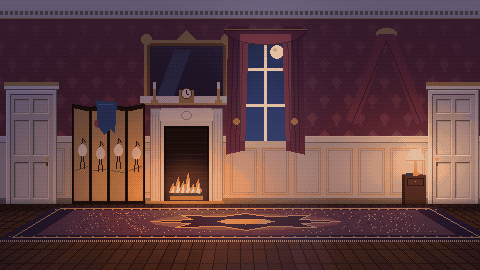
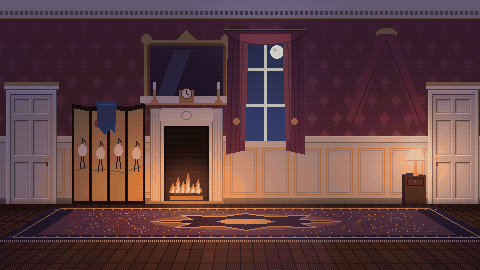
Cover the mansion bed with one full-length white sheet over Eleanor
Use the eleanor_sheet whites, raise the sheet over her feet and knees, keep
the drape inside the posts, and drop the rose coverlet and heap so both bed
states show only white linen.

Copilot-Session: 8aff2f3c-fe75-41b2-ae80-a6b3ecf14add

diff --git a/tools/art/mansion.py b/tools/art/mansion.py
@@ -1190,6 +1190,15 @@ LINEN_PALETTE = [SHEET, SHEET_LIT, SHEET_FOLD, SHEET_SIDE] + [
     tuple(round(a + (b - a) * k / 9) for a, b in zip(SHEET_FOLD, SHEET_LIT))
     for k in range(10)
 ]
+# Harrington's sheet is the same white cotton Eleanor later wraps herself in (sprites.ELEANOR_SHEET).
+MANSION_SHEET = hx("e8e4dc")
+MANSION_SHEET_LIT = hx("fffff8")
+MANSION_SHEET_SIDE = hx("c8c4bc")
+MANSION_SHEET_FOLD = hx("aca8a5")
+MANSION_LINEN_PALETTE = [MANSION_SHEET, MANSION_SHEET_LIT, MANSION_SHEET_SIDE, MANSION_SHEET_FOLD] + [
+    tuple(round(a + (b - a) * k / 9) for a, b in zip(MANSION_SHEET_FOLD, MANSION_SHEET_LIT))
+    for k in range(10)
+]
 
 
 def linen_surface(size, outline, folds, fill=SHEET, falloff=0.35, loft=None):
@@ -1246,7 +1255,7 @@ def _bare_eleanor():
     return seated
 
 
-def _sheet_on(figure, fill, hem):
+def _sheet_on(figure, fill, hem, side=SHEET_SIDE):
     w, h = figure.size
     outline = [(8, 20), (14, 21), (22, 20), (26, 19), (28, 23), (27, 29),
                (30, 34), (w - 1, 38), (w - 2, 41), (26, h - 1),
@@ -1260,14 +1269,50 @@ def _sheet_on(figure, fill, hem):
     ], fill, falloff=0.7, loft=[(17, 27, 8, 6, 11), (23, 35, 9, 3, 8)])
     d = ImageDraw.Draw(sheet)
     d.line([(8, 20), (14, 21), (22, 20), (26, 19)], fill=hem + (255,))
-    d.line([(9, 22), (14, 23), (21, 22)], fill=SHEET_SIDE + (255,))
+    d.line([(9, 22), (14, 23), (21, 22)], fill=side + (255,))
     return sheet
 
 
-def _eleanor_in_bed():
+def _eleanor_in_bed(fill=SHEET, hem=SHEET_LIT, side=SHEET_SIDE):
     """Eleanor sitting up against the pillows, bare shoulders; the sheet covers her from the chest down."""
     figure = _bare_eleanor()
-    return Image.alpha_composite(figure, _sheet_on(figure, SHEET, SHEET_LIT))
+    return Image.alpha_composite(figure, _sheet_on(figure, fill, hem, side))
+
+
+def _mansion_eleanor_in_bed():
+    return _eleanor_in_bed(MANSION_SHEET, MANSION_SHEET_LIT, MANSION_SHEET_SIDE)
+
+
+def _full_sheet(img):
+    """One white sheet over the whole mattress: feet and knees lift it toward the foot, it pools into her lap at the
+    head, and its front hangs in unequal scallops over the coverlet, kept inside the posts."""
+    w, h = img.size
+    side = linen_surface((w, h), [
+        (311, 184), (322, 185), (336, 184), (352, 185), (368, 184), (384, 185), (399, 184),
+        (399, 199), (396, 203), (387, 202), (378, 204), (367, 202), (356, 204),
+        (344, 202), (333, 204), (322, 202), (313, 204), (311, 199),
+    ], [
+        ([(318, 185), (316, 193), (318, 202)], 1.6, 30),
+        ([(331, 185), (334, 193), (332, 203)], 1.8, 34),
+        ([(350, 185), (347, 194), (350, 203)], 1.9, 34),
+        ([(366, 185), (369, 193), (366, 202)], 1.7, 30),
+        ([(383, 185), (380, 194), (383, 203)], 1.6, 28),
+    ], MANSION_SHEET_SIDE, falloff=0.9, loft=[(355, 185, 60, 2.5, -12)])
+    top = linen_surface((w, h), [
+        (310, 183), (314, 180), (318, 176), (323, 173), (327, 174), (331, 177),
+        (337, 178), (344, 174), (350, 170), (356, 169), (362, 171), (368, 175),
+        (376, 178), (388, 180), (399, 181), (399, 186), (384, 186), (368, 186),
+        (352, 186), (336, 186), (322, 186), (310, 186),
+    ], [
+        ([(316, 182), (330, 183), (348, 182), (366, 183)], 1.6, 46),
+        ([(330, 176), (333, 180), (337, 183)], 1.2, 30),
+        ([(360, 172), (364, 177), (370, 181)], 1.2, 26),
+        ([(343, 176), (349, 178), (356, 178)], 1.0, 18),
+    ], MANSION_SHEET, falloff=0.9, loft=[(323, 175, 4, 2, 8), (354, 172, 7, 3, 10)])
+    img.paste(side, (0, 0), side)
+    img.paste(top, (0, 0), top)
+    # the cotton tucked tight between her shins and hip
+    shadow(img, "ellipse", [336, 180, 346, 186], 0.12, 1)
 
 
 def _eleanor_origin(R):
@@ -1278,19 +1323,13 @@ def _eleanor_origin(R):
 
 
 def _restamp_white_sheet(img, R):
-    """Restore the shared lamp-lit face and neutral cotton after the room's rose-colored grade."""
+    """Restore the shared lamp-lit face and Harrington's white cotton after the room's rose-colored grade."""
     from PIL import ImageOps
     before = img.copy()
     frame = Image.new("RGBA", img.size)
     _bed_front(frame, R)
-    x1, z0, z1, top = BED["x1"], BED["z0"], BED["z1"], BED["top"]
-    head = linen_surface(img.size, [
-        R.P(x1 - 18, top, z0 + 1), R.P(x1 - 1, top, z0 + 1),
-        R.P(x1 - 1, top, z1 - 1), R.P(x1 - 1, 7, z1 - 1),
-        R.P(x1 - 12, 8, z1 - 1), R.P(x1 - 18, 11, z1 - 1),
-    ], [([(387, 184), (390, 190), (389, 201)], 1.3, 21)],
-        SHEET, falloff=0.7)
-    img.paste(head, (0, 0), head)
+    x1, z0, top = BED["x1"], BED["z0"], BED["top"]
+    _full_sheet(img)
     for dz, dy in ((z0 + 8, 0), (z0 + 22, 0), (z0 + 14, 5)):
         a, b = R.P(x1 - 20, top + 12 + dy, dz), R.P(x1 - 1, top + dy, dz + 14)
         ax, ay, bx, by = a[0], a[1], b[0], b[1]
@@ -1298,16 +1337,16 @@ def _restamp_white_sheet(img, R):
             (ax + 3, ay), (bx - 4, ay + 1), (bx - 1, ay + 4), (bx, by - 3),
             (bx - 3, by), (ax + 2, by - 1), (ax, by - 4), (ax + 1, ay + 3),
         ], [([(ax + 3, by - 2), (bx - 7, by - 3), (bx - 3, by - 6)], 1.1, 19)],
-            SHEET, falloff=0.5, loft=[((ax + bx) / 2, (ay + by) / 2, 9, 5, 15)])
+            MANSION_SHEET, falloff=0.5, loft=[((ax + bx) / 2, (ay + by) / 2, 9, 5, 15)])
         img.paste(pillow, (0, 0), pillow)
-    figure = ImageOps.mirror(_eleanor_in_bed())
+    figure = ImageOps.mirror(_mansion_eleanor_in_bed())
     img.paste(figure, _eleanor_origin(R), figure)
     img.paste(before, (0, 0), frame.getchannel("A"))
 
 
 def bedroom_palette(base, occupied, empty):
     pal = palette_of(Image.blend(Image.blend(base, occupied, 0.4), empty, 0.3), 124)
-    for color in LINEN_PALETTE:
+    for color in MANSION_LINEN_PALETTE:
         if color not in pal:
             pal.append(color)
     return pal
@@ -1315,7 +1354,7 @@ def bedroom_palette(base, occupied, empty):
 
 def _bed(img, R, who):
     """The walnut bed, side-on with its head to the right by the nightstand: a tall carved headboard, a low footboard,
-    pillows and a rose satin coverlet hanging to the rail. who: "eleanor" (sitting up against the pillows) or "empty"."""
+    pillows and a bare white mattress. who: "eleanor" (sitting up under the sheet) or "empty"."""
     x0, x1, z0, z1, top = BED["x0"], BED["x1"], BED["z0"], BED["z1"], BED["top"]
     WAL, WAL_D, WAL_L = hx("4a2a18"), hx("24140a"), hx("7a4a2a")
     shadow(img, "polygon", [R.P(x0 - 6, 0, z0), R.P(x1 + 6, 0, z0), R.P(x1 + 8, 0, z1 + 6), R.P(x0 - 8, 0, z1 + 6)], 0.6, 3)
@@ -1338,35 +1377,11 @@ def _bed(img, R, who):
         d.line([(a[0] + 3, b[1] - 2), (b[0] - 3, b[1] - 2)], fill=hx("d8d0c0"))
         if who == "empty" and k == 2:
             d.ellipse([a[0] + 5, a[1] + 3, a[0] + 13, a[1] + 7], fill=hx("d8d0c0"))  # the dent where her head was
-    cover_end = x1 - 18 if who == "eleanor" else x1 - 44
     if who == "eleanor":
         from PIL import ImageOps
-        el = ImageOps.mirror(_eleanor_in_bed())
+        el = ImageOps.mirror(_mansion_eleanor_in_bed())
         img.paste(el, _eleanor_origin(R), el)
-        d = ImageDraw.Draw(img)
-    # the coverlet over the top and down the front, a turned-down sheet at its head
-    ce = cover_end
-    R.quad(img, [(x0 - 1, top + 2, z0 + 1), (ce, top + 2, z0 + 1), (ce, top + 1, z1 + 1), (x0 - 1, top + 1, z1 + 1)], hx("a85a66"))
-    R.quad(img, [(ce - 6, top + 2.5, z0 + 1), (ce, top + 2.5, z0 + 1), (ce, top + 1.5, z1 + 1), (ce - 6, top + 1.5, z1 + 1)], hx("f4f0e6"))
-    R.quad(img, [(x0 - 1, top + 1, z1 + 1), (ce, top + 1, z1 + 1), (ce, 4, z1 + 1), (x0 - 1, 4, z1 + 1)], hx("8a4450"))
-    R.quad(img, [(ce - 6, top + 1.5, z1 + 1), (ce, top + 1.5, z1 + 1), (ce, 8, z1 + 1), (ce - 6, 10, z1 + 1)], hx("e4dccc"))
-    d = ImageDraw.Draw(img)
-    a, b = R.P(x0 - 1, 4, z1 + 1), R.P(ce, 4, z1 + 1)
-    d.line([a, b], fill=GILT)
-    for x in range(int(a[0]) + 1, int(b[0]), 2):
-        d.point((x, a[1] + 1), fill=hx("e0c070"))
-    n = max(2, int((ce - x0) / 12))
-    for k in range(n):  # satin folds
-        xa = x0 + 6 + k * (ce - x0 - 10) / n
-        d.line([R.P(xa, top - 2, z1 + 1), R.P(xa + 3, 6, z1 + 1)], fill=hx("6a2a36"))
-        d.line([R.P(xa + 2, top - 3, z1 + 1), R.P(xa + 5, 8, z1 + 1)], fill=hx("c87a84"))
-    if who == "empty":  # the sheet went with her; the coverlet thrown back in a heap
-        R.quad(img, [(ce, top + 0.5, z1 + 1), (x1, top + 0.5, z1 + 1), (x1, 8, z1 + 1), (ce, 8, z1 + 1)], hx("ddd4c2"))
-        d = ImageDraw.Draw(img)
-        a = R.P(ce - 4, top + 6, z1 - 6)
-        d.ellipse([a[0] - 10, a[1] - 3, a[0] + 8, a[1] + 7], fill=hx("b0606c"), outline=hx("6a2a36"))
-        d.line([R.P(ce + 4, top + 1, z1 - 4), R.P(x1 - 22, top + 1, z0 + 6)], fill=hx("c0b6a2"))
-        d.line([R.P(ce + 2, 20, z1 + 1), R.P(ce + 8, 10, z1 + 1)], fill=hx("c0b6a2"))
+    # No coverlet: the sheet is all that covered the mattress, and it went with her when she rose.
     _bed_front(img, R)
 
 

diff --git a/tests/art/test_scene_improvements.py b/tests/art/test_scene_improvements.py
@@ -179,15 +179,21 @@ class SceneImprovementsTests(unittest.TestCase):
         self.assertLessEqual(ys.min(), 22, "the white sheet must cover the marked chest area")
         self.assertGreater(ys.max(), 38)
 
-    def test_both_beds_use_the_same_visible_white_sheet_figure(self):
+    def test_both_beds_use_the_same_eleanor_figure_with_room_linen(self):
         from PIL import ImageOps
         from art import motel
-        figure = ImageOps.mirror(mansion._eleanor_in_bed())
-        opaque = np.array(figure.getchannel("A")) == 255
+        motel_figure = ImageOps.mirror(mansion._eleanor_in_bed())
+        mansion_figure = ImageOps.mirror(mansion._mansion_eleanor_in_bed())
+        np.testing.assert_array_equal(np.array(motel_figure.getchannel("A")), np.array(mansion_figure.getchannel("A")))
+        skin = np.array(ImageOps.mirror(mansion._bare_eleanor()))
+        cloth = np.array(ImageOps.mirror(mansion._sheet_on(mansion._bare_eleanor(), mansion.SHEET, mansion.SHEET_LIT)))
+        bare = (skin[:, :, 3] == 255) & (cloth[:, :, 3] == 0)
+        np.testing.assert_array_equal(np.array(motel_figure)[bare], np.array(mansion_figure)[bare])
         bedroom = mansion.paint_bedroom("eleanor")
         bx, by = mansion._eleanor_origin(mansion.Room3D(mansion.BFL, 240, 100))
         night = motel.paint_night()
-        for room, (x, y) in ((bedroom, (bx, by)), (night, motel.ELEANOR_ORIGIN)):
+        for room, (x, y), figure in ((bedroom, (bx, by), mansion_figure), (night, motel.ELEANOR_ORIGIN, motel_figure)):
+            opaque = np.array(figure.getchannel("A")) == 255
             crop = np.array(room.crop((x, y, x + figure.width, y + figure.height)))
             shown = opaque.copy()
             if room is night:
@@ -198,8 +204,31 @@ class SceneImprovementsTests(unittest.TestCase):
             image = np.array(Image.open(self.generated / "rooms" / f"{name}.png").convert("RGB"))
             white = (image.min(axis=2) >= 100) & (image.max(axis=2) - image.min(axis=2) <= 20)
             self.assertGreater(np.count_nonzero(white), 60, f"{name}: white linen disappeared during quantization")
-            for color in (mansion.SHEET, mansion.SHEET_LIT):
-                self.assertLessEqual(max(color), 155, "linen should not glow against the night room")
+        for color in (mansion.SHEET, mansion.SHEET_LIT):
+            self.assertLessEqual(max(color), 155, "motel linen should not glow against the night room")
+        from art import sprites
+        self.assertEqual(mansion.MANSION_SHEET, common.hx(sprites.ELEANOR_SHEET["torso"]),
+                         "Harrington's sheet is the white one Eleanor later wraps herself in")
+
+    def test_mansion_sheet_covers_the_whole_bed_with_her_body_beneath(self):
+        image = np.asarray(mansion.paint_bedroom("eleanor")).astype(int)
+        white = (image.min(axis=2) >= 150) & (image.max(axis=2) - image.min(axis=2) <= 24)
+        R = mansion.Room3D(mansion.BFL, 240, 100)
+        x0, x1, z1 = mansion.BED["x0"], mansion.BED["x1"], mansion.BED["z1"]
+        left, right = int(R.P(x0, 0, z1 + 4)[0]) + 2, int(R.P(x1, 0, z1)[0]) - 2
+        drape = white[187:198, left:right]
+        self.assertTrue(drape.all(axis=0).all(), "the sheet must hang over the full length of the bed")
+        crest = [int(np.argmax(white[150:190, x])) + 150 for x in range(left, right)]
+        feet, knees = min(crest[316 - left:328 - left]), min(crest[346 - left:360 - left])
+        hollow = max(crest[333 - left:340 - left])
+        mattress = int(R.P(x0, mansion.BED["top"], z1)[1])
+        self.assertLess(knees, mattress - 8, "her knees must lift the sheet")
+        self.assertLess(feet, mattress - 5, "her feet must lift the sheet")
+        self.assertGreater(hollow, max(feet, knees) + 1, "the shins dip between feet and knees")
+        outside = white[175:206, :int(R.P(x0 - 4, 0, z1)[0]) - 1]
+        self.assertFalse(outside.any(), "the sheet must not spill past the foot posts")
+        head_post = int(R.P(x1 + 4, 0, z1 + 4)[0]) + 1
+        self.assertFalse(white[186:206, head_post:head_post + 12].any(), "the sheet must not spill past the head posts")
 
     def test_sheet_spreads_over_the_lap_instead_of_clipping_to_the_standing_body(self):
         body = np.asarray(mansion._bare_eleanor())

diff --git a/docs/art-realism-pass.md b/docs/art-realism-pass.md
@@ -32,6 +32,7 @@ The failures were not “needs more polygons.” They were shapes that did not r
 | Documents / cloth / wedge | Flat paper, one fold, a plain triangle. | A lifted paper corner, extra cloth folds, and wood grain on the wedge. |
 | Office door | One closed door painted into the room. | Closed plate is unchanged. `office_door_ajar.png` and `office_door_open.png` are overlays of the same palette, cropped from `DOOR_BOX`. |
 | Mansion bed sheet | The marked chest area read as exposed skin; bright white and three straight fold lines looked luminous and rigid. The subsequent darker, softly shaded attempt still clipped fabric to a standing torso. | Chest-covering cotton has its own silhouette, widens over the seated lap, and spreads onto the mattress. Finite, curved fold valleys with tapered ends and raised lamp-facing lips replace the stripes. Rounded pillow support and contact shadows connect the fabric to the bed. |
+| Mansion full-body sheet | A dark side rail crossed the coverlet just above the floor. The sheet covered only Eleanor's upper body, then stopped; the rest of the bed showed the rose coverlet, and the empty bed had a rose heap thrown on it. | The rail is gone (base rail and posts unchanged). One white sheet, using the colors of `eleanor_sheet` (`e8e4dc` base), covers the whole mattress. Her feet and knees raise it, her shins make a dip between them, and the front hangs in uneven scallops that stay inside the posts. There is no coverlet in either state; the empty bed shows only the white mattress, pillows and the dent where her head lay. The figure's geometry and bare skin are still identical to the motel's. Only the color of her sheet is set per room. Both overlays are now `120x82` at `(296,136)`. |
 | Motel Eleanor | Tiny painted sleeper was hard to identify. | Reuses the mansion's exact bed-figure painter, without rotation or rescaling, against the motel pillows. She remains in bed. |
 | Motel linen | Brown/beige bedding merged with skin; full-white bedding subsequently glowed. Lowering RGB and adding soft gathers did not fix the rigid mattress plane, straight hem, or clipped torso. | Unequal body-supported ridges, short transverse gathers, an irregular hanging hem, and darker compressed cotton give the cloth volume. The canonical head moves a net five pixels right and two back from the rejected attempt, without rescaling. Original graded iron-rail pixels are protected from the linen restamp; the kicked-off blanket stays separate. |
 | Harrington's collapse | Rotated standing frames toppled diagonally, then jumped to an unrelated lying texture. | Articulated standing → knees → forward fall → horizontal face-down pose. The held shot image is exactly the last collapse frame. |
